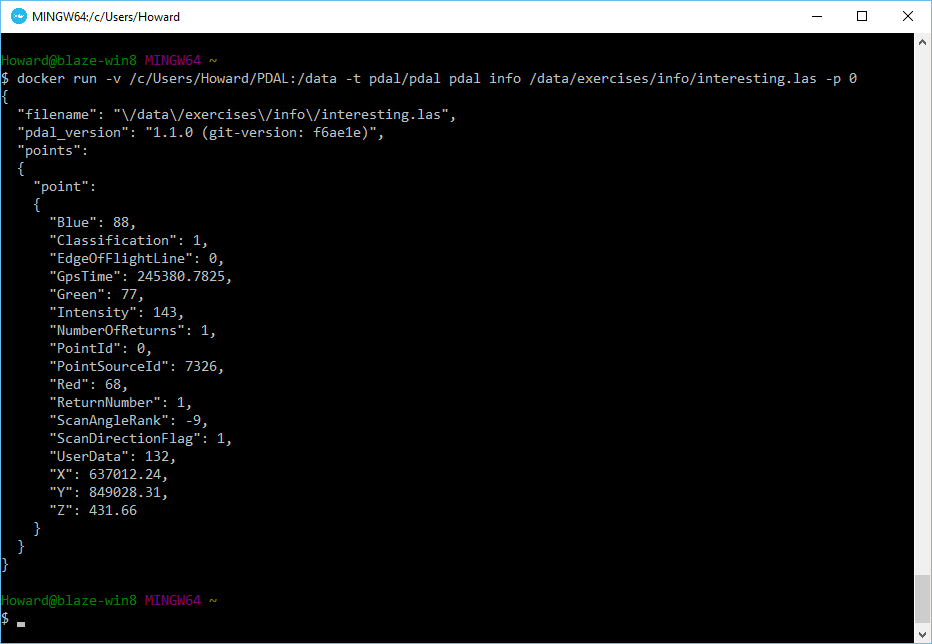
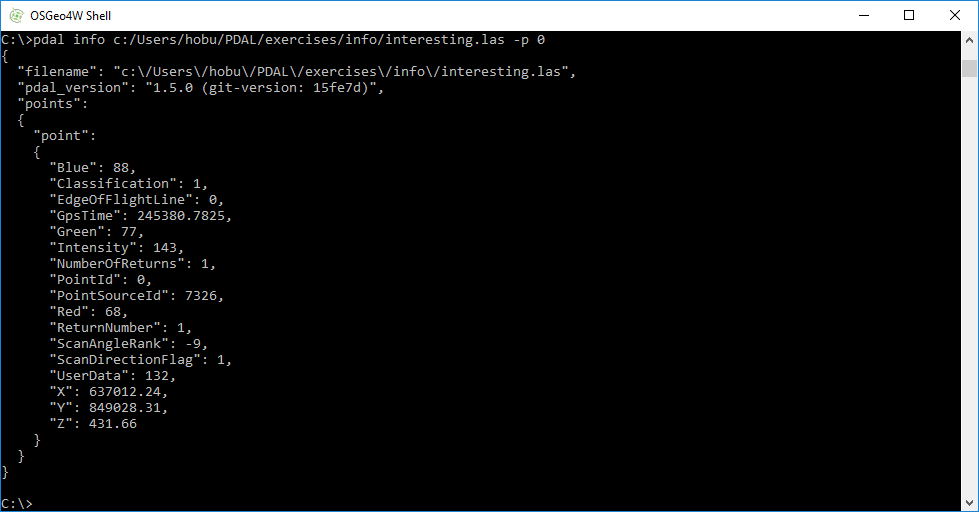
start refactoring workshop for windows

Changed region(s): [[0.0, 0.0, 1.0, 1.0], [0.0, 0.8438, 0.2178, 1.0]]

diff --git a/doc/workshop/exercises/info/single-point.rst b/doc/workshop/exercises/info/single-point.rst
@@ -5,44 +5,30 @@ Printing the first point
 
 .. include:: ../../includes/substitutions.rst
 
-.. index:: info command, Start Here, docker run
+.. index:: info command, Start Here, installation
 
 Exercise
 --------------------------------------------------------------------------------
 
 This exercise uses PDAL to print information from the first point. Issue the
-following command in your `Docker Quickstart Terminal`.
+following command in your `OSGeo4W Shell`.
 
 .. literalinclude:: ./single-point-command.txt
     :linenos:
 
 Here's a summary of what's going on with that command invocation
 
-1. ``docker``: We are running PDAL within the context of docker, so all of our
-   commands will start with the ``docker`` command.
-
-2. ``run``: Tells docker we're going to run an image
-
-3. ``-v /c/Users/Howard/PDAL:/data``: Maps our workshop directory to a directory called
-   ``/data`` inside the container.
-
-   .. seealso::
-
-       The `Docker Volume <https://docs.docker.com/engine/userguide/dockervolumes/>`__
-       document describes mounting volumes in more detail.
-
-4. ``pdal/pdal``: This is the Docker image we are going to run. We fetched it in the
-   :ref:`docker` portion of the workshop.
-
-5. ``pdal``: We're finally going to run the ``pdal`` application :)
+1. ``pdal``: The ``pdal`` application :)
 
 6. ``info``: We want to run :ref:`info_command` on the data. All commands
    are run by the ``pdal`` application.
 
-7. ``/data/exercises/info/interesting.las``: The ``pdal`` command is now
-   running in the context of our container, which we mounted a ``/data``
-   directory in with the volume mount operation in Step #3. Our
-   ``interesting.las`` file resides there.
+7. ``c:/Users/hobu/PDAL/exercises/info/interesting.las``: The file we
+   are running the command on. PDAL will be able to identify this file
+   is an |ASPRSLAS| file from the extension, ``.las``, but not every
+   file type is easily identified. You can use a :ref:`pipeline <pipeline_command>`
+   to override which :ref:`reader <readers>` PDAL will use to
+   open the file.
 
 8. ``-p 0``: ``-p`` corresponds to "print a point", and ``0`` means to print
    the first one (computer people count from 0).
@@ -53,14 +39,12 @@ Here's a summary of what's going on with that command invocation
 Notes
 --------------------------------------------------------------------------------
 
-.. index:: JSON
+.. index:: JSON, CSV
 
-1. PDAL uses `JSON`_ as the exchange format when printing information from :ref:`info_command`.
-   JSON is a structured, human-readable format that is much simpler than its `XML`_ cousin.
+1. PDAL uses |JSON| as the exchange format when printing information from :ref:`info_command`.
+   JSON is a structured, human-readable format that is much simpler than its |XML| cousin.
 
-.. index:: CSV
-
-2. You can use the :ref:`writers.text` writer to output point attributes to `CSV`_ format for
+2. You can use the :ref:`writers.text` writer to output point attributes to |CSV| format for
    other processing.
 
 3. Output help information on the command line by issuing the ``--help`` option
@@ -68,11 +52,3 @@ Notes
 4. A common query with ``pdal info`` is ``--all``, which will print all header,
    metadata, and statistics about a file.
 
-5. In the command, we add the ``\`` character for line continuation. All items on the
-   ``docker run`` command must be on the same line. You will see this convention
-   throughout the workshop to make the command easier to read, but remember
-   that everything needs to be on one line.
-
-.. _`CSV`: https://en.wikipedia.org/wiki/Comma-separated_values
-.. _`JSON`: https://en.wikipedia.org/wiki/JSON
-.. _`XML`: https://en.wikipedia.org/wiki/XML

diff --git a/doc/workshop/exercises/info/metadata.rst b/doc/workshop/exercises/info/metadata.rst
@@ -11,7 +11,7 @@ Exercise
 --------------------------------------------------------------------------------
 
 This exercise uses PDAL to print metadata information. Issue the
-following command in your `Docker Quickstart Terminal`.
+following command in your `OSGeo4W Shell`.
 
 
 .. literalinclude:: ./metadata-command.txt
@@ -28,7 +28,7 @@ following command in your `Docker Quickstart Terminal`.
 
 .. seealso::
 
-    Use the `JSON`_ processing capabilities of your favorite processing
+    Use the |JSON| processing capabilities of your favorite processing
     software to selectively access and manipulate values.
 
     * `Python JSON library`_
@@ -42,11 +42,42 @@ following command in your `Docker Quickstart Terminal`.
 .. _`Ruby JSON library`: http://ruby-doc.org/stdlib-2.0.0/libdoc/json/rdoc/JSON.html
 
 
+Structured Metadata Output
+................................................................................
+
+Many command-line utilities output their data in a human-readable custom
+format. The downsides to this approach are significant. PDAL was designed to be
+used in the context of other software tools driving it. For example, it is
+quite common for PDAL to be used in data validation scenarios. Other programs
+might need to inspect information in PDAL's output and then act based on the
+values. A human-readable format would mean that downstream program would need
+to write a parser to consume PDAL's special format.
+
+|JSON| provides a nice balance between human- and machine- readable, but
+even then it can be quite hard to find what you're looking for, especially
+if the output is long. ``pdal`` command output used in conjunction with a
+JSON parsing tool like ``jq`` provide a powerful inspection combination.
+
+For example, we might only care about the ``system_id`` and ``compressed``
+flag for this particular file. Our simple ``pdal info --metadata`` command
+gives us that, but it also gives us a bunch of other stuff we don't need
+at the moment either. Let's focus on just extracting what we need using the
+``jq`` command.
+
+.. literalinclude:: ./metadata-command-jq.txt
+    :linenos:
+
+
+.. image:: ../../images/info-interesting-metadata-jq.png
+
+
+
+
 Notes
 --------------------------------------------------------------------------------
 
-1. PDAL uses `JSON`_ as the exchange format when printing information from :ref:`info_command`.
-   JSON is a structured, human-readable format that is much simpler than its `XML`_ cousin.
+1. PDAL uses |JSON| as the exchange format when printing information from :ref:`info_command`.
+   JSON is a structured, human-readable format that is much simpler than its |XML| cousin.
 
 2. The PDAL :ref:`metadata document <metadata>` contains background and
    information about specific metadata entries and what they mean.
@@ -61,6 +92,3 @@ Notes
    in PDAL.
 
 
-.. _`CSV`: https://en.wikipedia.org/wiki/Comma-separated_values
-.. _`JSON`: https://en.wikipedia.org/wiki/JSON
-.. _`XML`: https://en.wikipedia.org/wiki/XML

diff --git a/doc/workshop/osgeo4w.rst b/doc/workshop/osgeo4w.rst
@@ -1,0 +1,63 @@
+.. workshop-osgeo4w:
+
+
+OSGeo4W
+================================================================================
+
+.. index:: OSGeo4W, software installation
+
+.. include:: ./includes/substitutions.rst
+
+
+
+
+What is OSGeo4W?
+--------------------------------------------------------------------------------
+
+|OSGeo4W| is a distribution of geospatial software built for Windows. The PDAL
+project provides Windows builds through this distribution.
+
+
+How will we use OSGeo4W?
+--------------------------------------------------------------------------------
+
+PDAL stands on the shoulders of giants. It uses GDAL, GEOS, and
+:ref:`many other dependencies <building>`. Because of this, it is very
+challenging to build it yourself. We could easily burn an entire workshop
+learning the esoteric build miseries of PDAL and all of its dependencies.
+Fortunately, OSGeo4W provides us a fully-featured known
+configuration to run our examples and exercises without having to suffer
+so much.
+
+
+.. note::
+
+    Not everyone uses Windows. Another alternative to get a known configuration
+    is to go through the workshop using :ref:`docker` as your platform. A
+    previous edition of the workshop was provided as Docker, but it was
+    found to be a bit too difficult to follow.
+
+Installing OSGeo4W
+--------------------------------------------------------------------------------
+
+1. Copy the entire contents of your workshop USB key to a ``PDAL`` directory in your
+   home directory (something like ``C:\Users\hobu\PDAL``). We will refer to
+   this location for the rest of the workshop materials.
+
+2. Download the OSGeo4W setup.exe http://download.osgeo.org/osgeo4w/osgeo4w-setup-x86_64.exe
+
+   .. warning::
+
+       PDAL is only available via the 64-bit verison of OSGeo4W. There is an older
+       32-bit version, but none of the workshop materials will work in that
+       environment. You must be able to run 64-bit Windows applications to follow
+       this workshop.
+
+3. Run the installer and choose the "Advanced Install" option.
+
+   .. image:: ./images/osgeo4w-advanced-selection.png
+
+4. Search for "PDAL" in the search box or drill down through the Commandline_Utilities
+   section and choose the ``PDAL`` package.
+
+   .. image:: ./images/osgeo4w-pdal-selection.png

diff --git a/doc/workshop/exercises/translation/compression.rst b/doc/workshop/exercises/translation/compression.rst
@@ -8,18 +8,17 @@ Compression
 Exercise
 --------------------------------------------------------------------------------
 
-This exercise uses PDAL to compress `ASPRS LAS`_ data into `LASzip`_.
+This exercise uses PDAL to compress |ASPRSLAS| data into |LASzip|.
 
 .. _`LASzip`: http://laszip.org
-.. _`ASPRS LAS`: http://www.asprs.org/Committee-General/LASer-LAS-File-Format-Exchange-Activities.html
 
-Issue the following command in your `Docker Quickstart Terminal`.
+Issue the following command in your `OSGeo4W Shell`.
 
 
 .. literalinclude:: ./compression-command.txt
 
 LAS is a very fluffy binary format. Because of the way the data are stored,
-there is ample redundant information, and `LASzip`_ is an open source solution
+there is ample redundant information, and |LASzip| is an open source solution
 for compressing this information
 
 
@@ -34,8 +33,8 @@ for compressing this information
 Notes
 --------------------------------------------------------------------------------
 
-1. Typical `LASzip`_ compression is 5:1 to 8:1, depending on the type of
-   |LiDAR|. It is a compression format specifically for the `ASPRS LAS`_
+1. Typical |LASzip| compression is 5:1 to 8:1, depending on the type of
+   |LiDAR|. It is a compression format specifically for the |ASPRSLAS|
    model, however, and will not be as efficient for other types of
    point cloud data.
 

diff --git a/doc/workshop/qgis.rst b/doc/workshop/qgis.rst
@@ -27,18 +27,18 @@ Installing QGIS
 --------------------------------------------------------------------------------
 
 1. Copy the contents of your |Hobu| USB key to a ``PDAL`` directory in your
-   home directory (something like ``C:\Users\Howard\PDAL``). We will refer to
+   home directory (something like ``C:\Users\hobu\PDAL``). We will refer to
    this location for the rest of the workshop materials.
 
 2. After your materials are copied, navigate to the
-   ``c:\Users\Howard\PDAL\software`` directory.
+   ``c:\Users\hobu\PDAL\software`` directory.
 
 .. image:: ./images/qgis-select-qgis.png
 
 .. note::
 
     It is assumed your |Hobu| USB drive has all of its contents
-    copied to the ``C:\Users\Howard\PDAL`` folder. Please adjust your
+    copied to the ``C:\Users\hobu\PDAL`` folder. Please adjust your
     locations when reading these tutorial documents accordingly.
 
 3. Choose the install image, Windows or Mac, and install |QGIS|
@@ -50,7 +50,7 @@ Installing QGIS
 
 
 4. Once installed, verify you can run |QGIS| by opening the application.
-   Navigate to the ``C:\Users\Howard\PDAL\exercises\analysis\colorization``
+   Navigate to the ``C:\Users\hobu\PDAL\exercises\analysis\colorization``
    directory.
 
 .. image:: ./images/qgis-add-raster-layer.png

diff --git a/doc/workshop/includes/substitutions.rst b/doc/workshop/includes/substitutions.rst
@@ -9,8 +9,11 @@
 .. |QGIS| replace:: `QGIS <http://qgis.org>`__
 .. |GDAL| replace:: `GDAL <http://gdal.org/>`__
 .. |JSON| replace:: `JSON <https://en.wikipedia.org/wiki/JSON>`__
+.. |XML| replace:: `XML <https://en.wikipedia.org/wiki/XML>`__
+.. |CSV| replace:: `CSV <https://en.wikipedia.org/wiki/Comma-separated_values>`__
 .. |NumPy| replace:: `NumPy <http://www.numpy.org/>`__
 .. |Bash| replace:: `Bash <https://en.wikipedia.org/wiki/Bash_(Unix_shell)>`__
+.. |OSGeo4W| replace:: `OSGeo4W <https://trac.osgeo.org/osgeo4w/>`__
 .. |GEOS| replace:: `GEOS <https://trac.osgeo.org/geos/>`__
 .. |LASzip| replace:: `LASzip <http://laszip.org>`__
 .. |Python| replace:: `Python <http://python.org/>`__

diff --git a/doc/workshop/software.rst b/doc/workshop/software.rst
@@ -8,7 +8,7 @@ Software Installation
 .. toctree::
    :maxdepth: 2
 
-   docker
+   osgeo4w
    qgis
 
 
